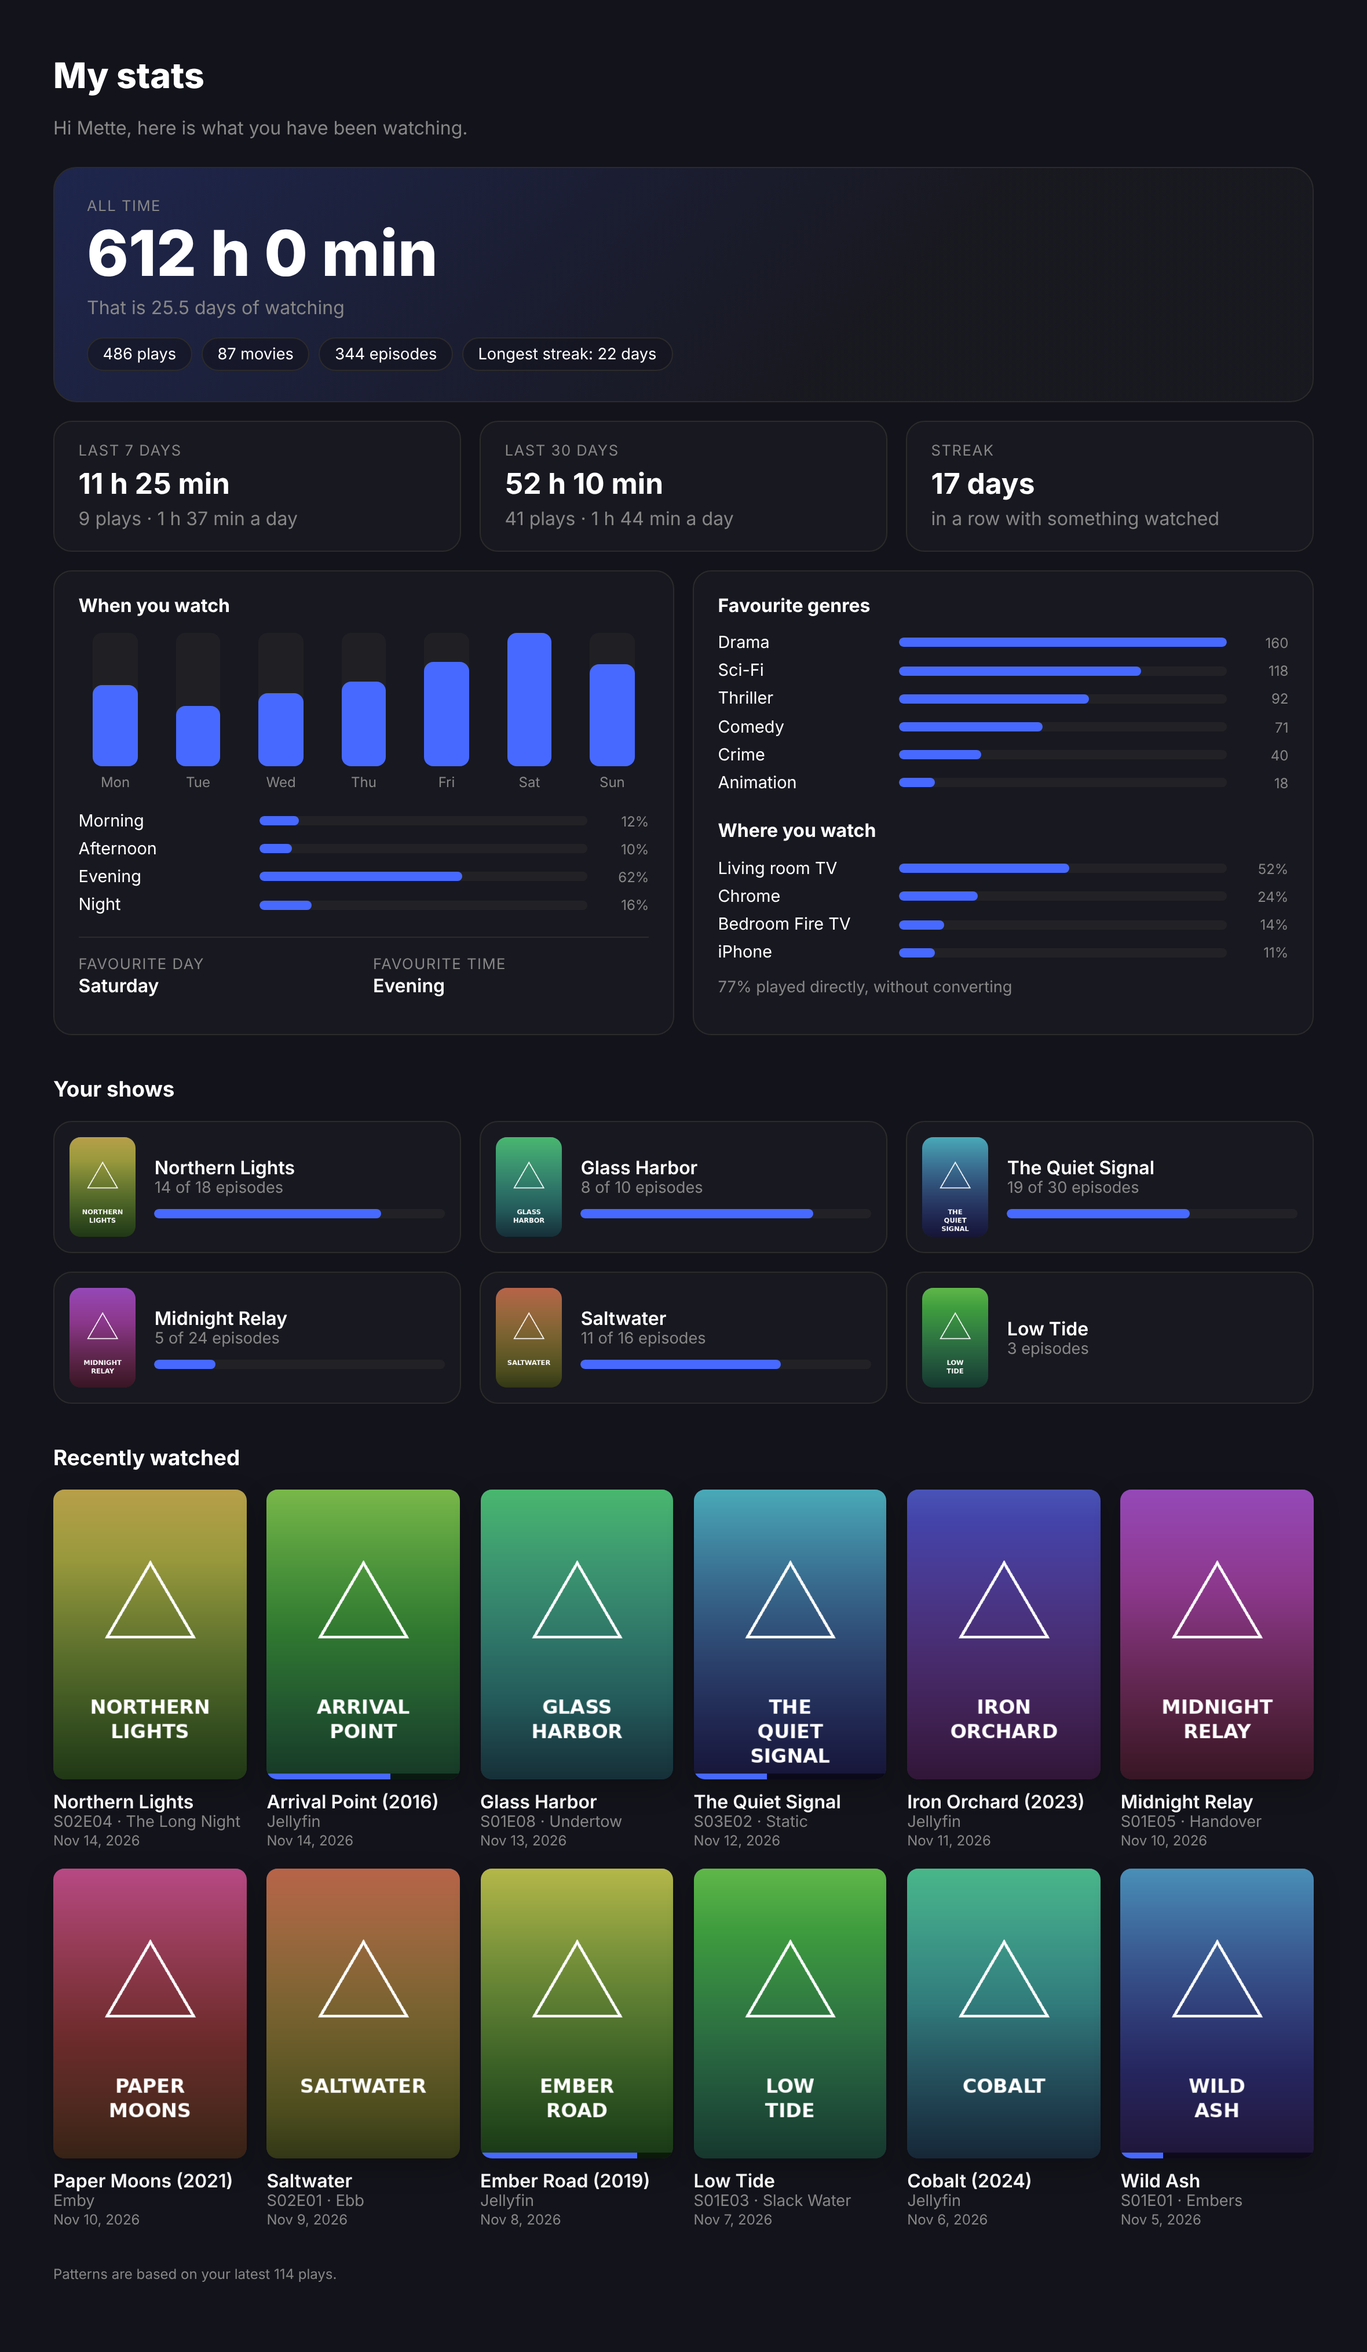
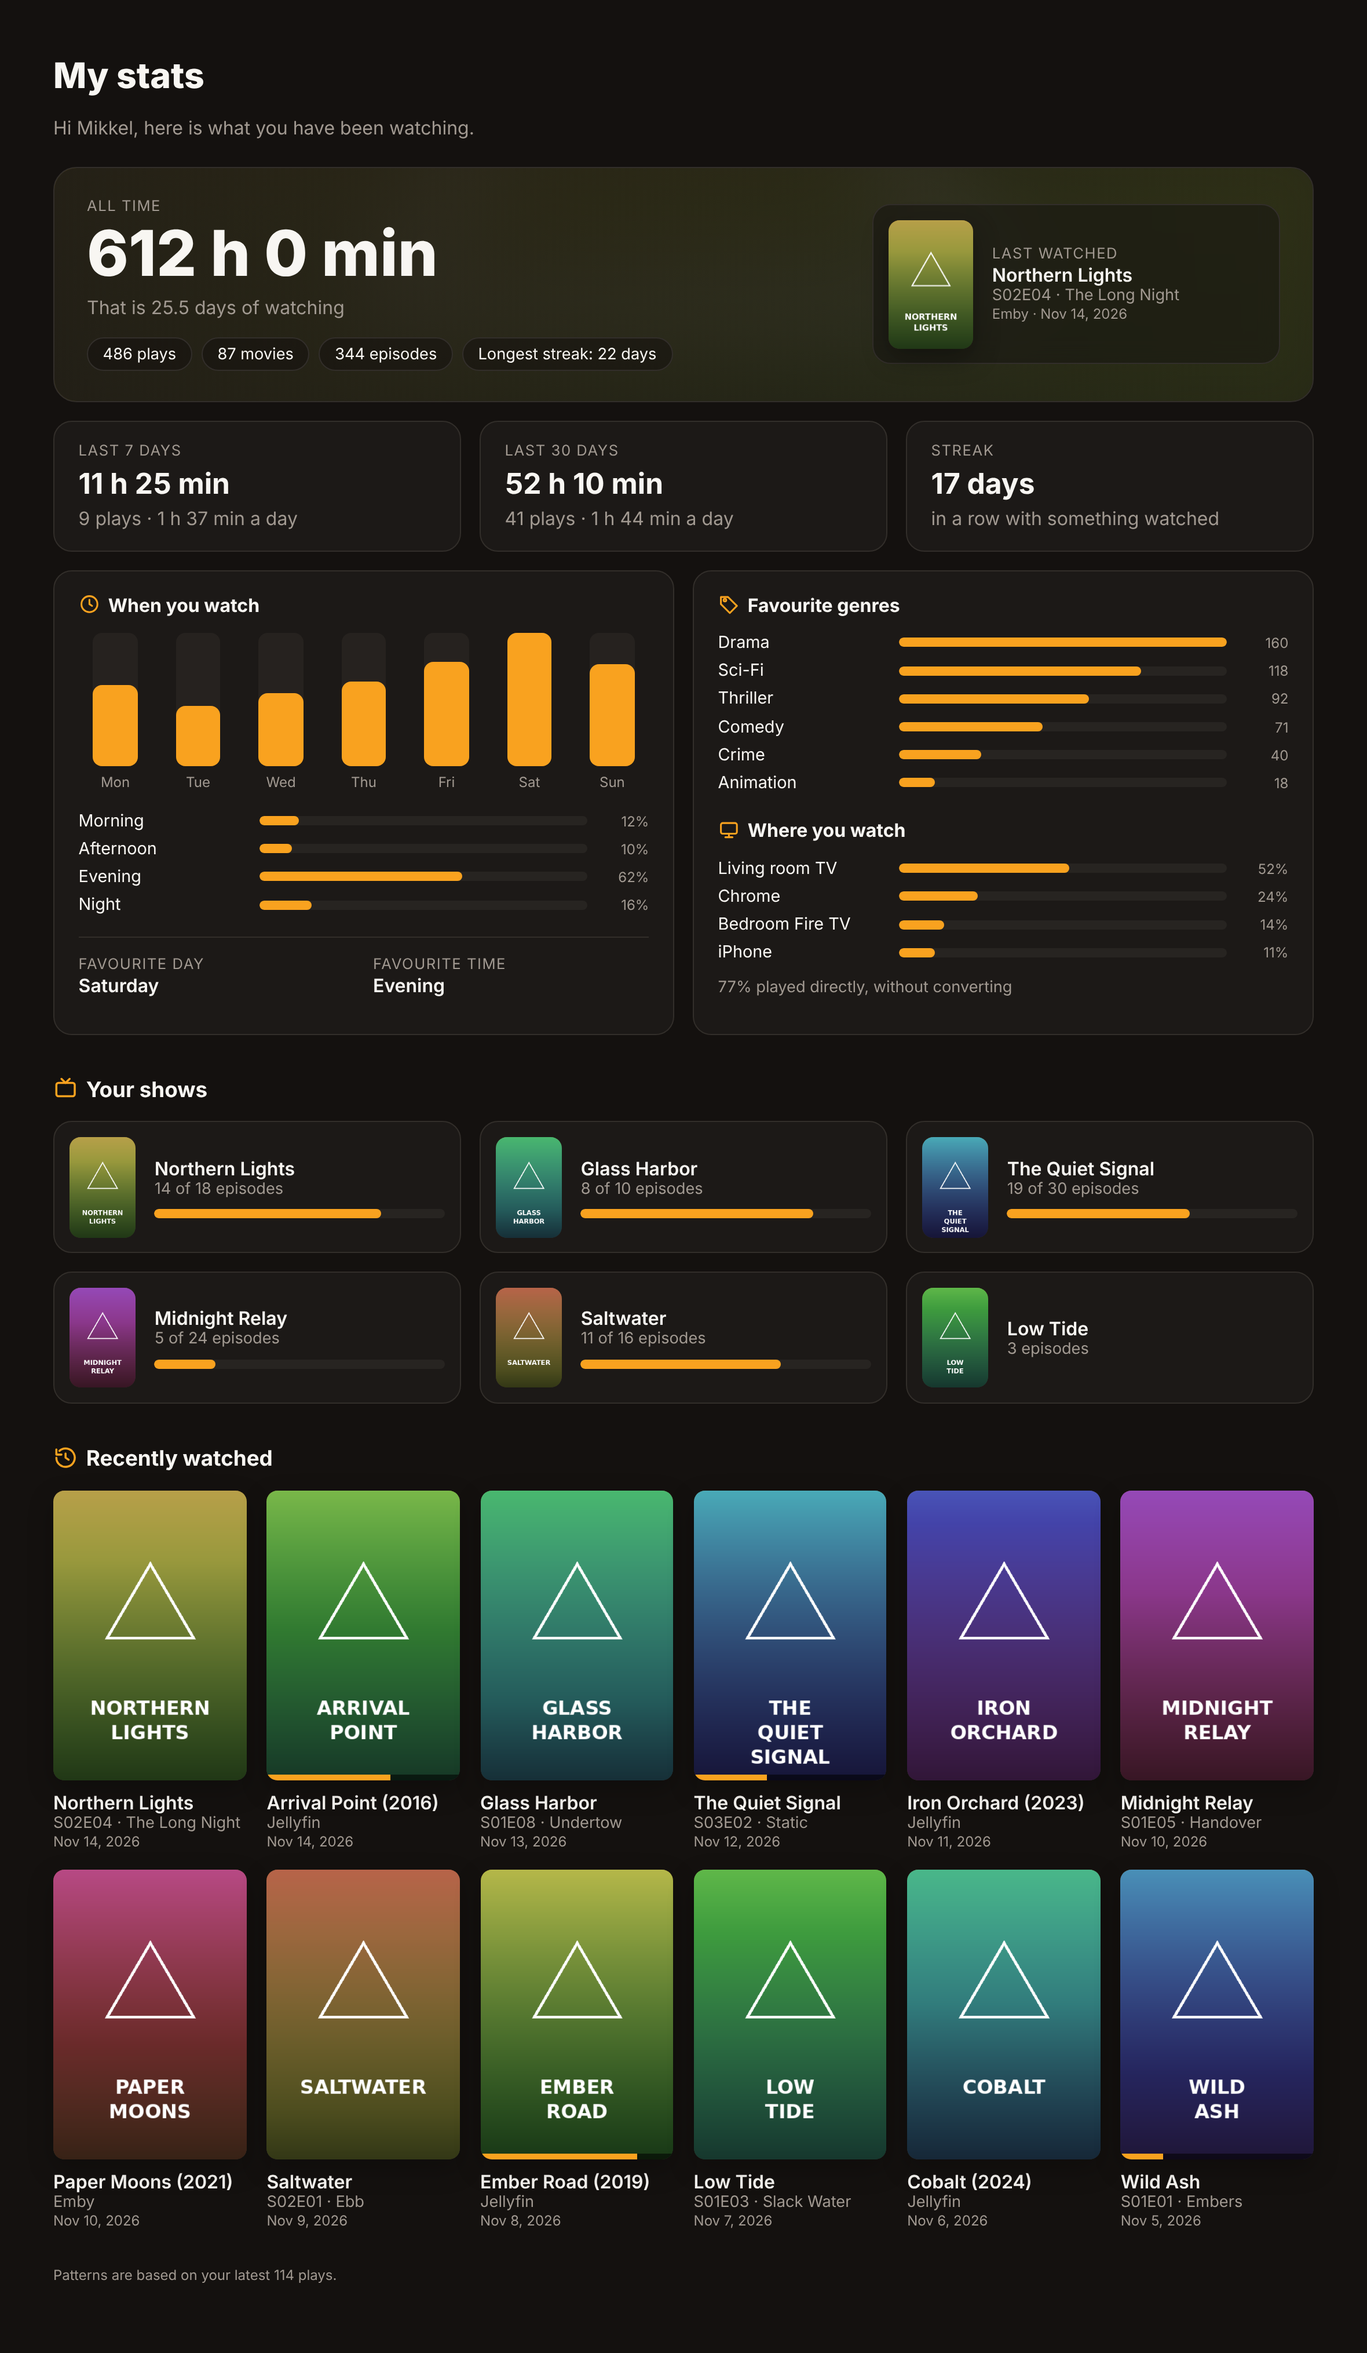
Paywarr Stats 1.4.0: a livelier page, also with little to show
- The top shows what was last watched, with its poster blurred behind
- 'Under 1 min' instead of '0 min'; no daily average below a minute
- Short plays count in 'When you watch', so a first play shows there
- Icons on the section headings, in the theme's colour
- 'your latest play' instead of 'your latest 1 plays'
- New screenshot

Claude-Session: https://claude.ai/code/session_01BG9g3MP2fdjTgy71zBk7Jb

diff --git a/extensions/Others/PaywarrStats/PaywarrStats.php b/extensions/Others/PaywarrStats/PaywarrStats.php
@@ -22,7 +22,7 @@ use Throwable;
 #[ExtensionMeta(
     name: 'Paywarr Stats',
     description: 'Shows each customer their own watch statistics from Tracearr or Silo, on a page in the client area.',
-    version: '1.3.1',
+    version: '1.4.0',
     author: 'Paywarr',
     url: 'https://github.com/Lolles1911/Paywarr-stats',
 )]
@@ -519,7 +519,8 @@ class PaywarrStats extends Extension
             if ($ts === false) {
                 continue;
             }
-            $minutes = intdiv(max(0, $play['watched_ms']), 60000);
+            // Every play counts in the patterns, a short one as a minute.
+            $minutes = max(1, intdiv(max(0, $play['watched_ms']), 60000));
             $weekdays[(int) date('N', $ts)] += $minutes;
             $hour = (int) date('G', $ts);
             $dayparts[$hour < 6 ? 'night' : ($hour < 12 ? 'morning' : ($hour < 18 ? 'afternoon' : 'evening'))] += $minutes;
@@ -602,10 +603,25 @@ class PaywarrStats extends Extension
         if ($insights['longest_streak'] > 1) {
             $chips[] = self::t('Longest streak: :count days', ['count' => $insights['longest_streak']]);
         }
-        $html .= '<section class="ps-hero"><div class="ps-label">' . $e(($stats['all_time'] ?? 'all') === 'year' ? self::t('Last 12 months') : self::t('All time')) . '</div>'
+        $last = $stats['recent'][0] ?? null;
+        $html .= '<section class="ps-hero">'
+            . ($last && $last['poster'] > 0 ? '<img class="ps-hero-bg" alt="" src="' . $e($posterBase . $last['poster']) . '" onerror="this.remove()">' : '')
+            . '<div class="ps-hero-main"><div class="ps-label">' . $e(($stats['all_time'] ?? 'all') === 'year' ? self::t('Last 12 months') : self::t('All time')) . '</div>'
             . '<div class="ps-big">' . $e($this->duration($all['watch_time_ms'])) . '</div>'
             . ($all['watch_time_ms'] >= 86400000 ? '<div class="ps-muted">' . $e(self::t('That is :count days of watching', ['count' => number_format($all['watch_time_ms'] / 86400000, 1, self::t('.'), '')])) . '</div>' : '')
-            . '<div class="ps-chips">' . implode('', array_map(fn ($c) => '<span class="ps-chip">' . $e($c) . '</span>', $chips)) . '</div></section>';
+            . '<div class="ps-chips">' . implode('', array_map(fn ($c) => '<span class="ps-chip">' . $e($c) . '</span>', $chips)) . '</div></div>';
+        if ($last) {
+            $lastTitle = $last['show'] !== '' ? $last['show'] : $last['title'] . ($last['year'] ? ' (' . $last['year'] . ')' : '');
+            $lastSub = $last['show'] !== '' ? ($last['season'] !== null && $last['episode'] !== null ? sprintf('S%02dE%02d', $last['season'], $last['episode']) . ' · ' : '') . $last['title'] : '';
+            $when = ($ts = strtotime($last['started_at'])) ? date(self::t('M j, Y'), $ts) : '';
+            $html .= '<div class="ps-spot">' . $poster($last['poster'], $lastTitle, 'ps-spot-cover')
+                . '<div class="ps-grow"><div class="ps-label">' . $e(self::t('Last watched')) . '</div>'
+                . '<div class="ps-title ps-clamp">' . $e($lastTitle) . '</div>'
+                . ($lastSub !== '' ? '<div class="ps-muted ps-small ps-clip">' . $e($lastSub) . '</div>' : '')
+                . '<div class="ps-muted ps-tiny">' . $e(implode(' · ', array_filter([$last['server'], $when]))) . '</div>'
+                . ($last['percent'] !== null && $last['percent'] < 95 ? $bar($last['percent'] / 100) : '') . '</div></div>';
+        }
+        $html .= '</section>';
 
         // Periods
         $html .= '<div class="ps-periods">';
@@ -614,7 +630,7 @@ class PaywarrStats extends Extension
             $html .= '<div class="ps-card"><div class="ps-label">' . $e($label) . '</div>'
                 . '<div class="ps-value">' . $e($this->duration($window['watch_time_ms'])) . '</div>'
                 . '<div class="ps-muted">' . $e($window['plays'] === 1 ? self::t('1 play') : self::t(':count plays', ['count' => $window['plays']]))
-                . ' · ' . $e(self::t(':time a day', ['time' => $this->duration(intdiv($window['watch_time_ms'], $daysInPeriod))])) . '</div></div>';
+                . ($window['watch_time_ms'] >= $daysInPeriod * 60000 ? ' · ' . $e(self::t(':time a day', ['time' => $this->duration(intdiv($window['watch_time_ms'], $daysInPeriod))])) : '') . '</div></div>';
         }
         if ($insights['current_streak'] > 0) {
             $html .= '<div class="ps-card"><div class="ps-label">' . $e(self::t('Streak')) . '</div>'
@@ -628,7 +644,7 @@ class PaywarrStats extends Extension
         if (array_sum($insights['weekdays']) > 0) {
             $max = max($insights['weekdays']);
             $names = [1 => self::t('Monday'), 2 => self::t('Tuesday'), 3 => self::t('Wednesday'), 4 => self::t('Thursday'), 5 => self::t('Friday'), 6 => self::t('Saturday'), 7 => self::t('Sunday')];
-            $html .= '<section class="ps-card"><h2>' . $e(self::t('When you watch')) . '</h2><div class="ps-week">';
+            $html .= '<section class="ps-card"><h2>' . $this->icon('when-you-watch') . $e(self::t('When you watch')) . '</h2><div class="ps-week">';
             foreach ($insights['weekdays'] as $day => $minutes) {
                 $html .= '<div class="ps-col" title="' . $e($this->duration($minutes * 60000)) . '"><span class="ps-colbar"><span style="height:' . max(3, (int) round(100 * $minutes / $max)) . '%"></span></span><span class="ps-tiny">' . $e(mb_substr($names[$day], 0, 3)) . '</span></div>';
             }
@@ -646,13 +662,13 @@ class PaywarrStats extends Extension
             $html .= '<section class="ps-card">';
             if ($stats['genres']) {
                 $top = max($stats['genres']);
-                $html .= '<h2>' . $e(self::t('Favourite genres')) . '</h2>';
+                $html .= '<h2>' . $this->icon('favourite-genres') . $e(self::t('Favourite genres')) . '</h2>';
                 foreach ($stats['genres'] as $genre => $count) {
                     $html .= '<div class="ps-line"><span>' . $e($genre) . '</span>' . $bar($count / max(1, $top)) . '<span class="ps-tiny">' . $e($count) . '</span></div>';
                 }
             }
             if ($insights['devices']) {
-                $html .= '<h2>' . $e(self::t('Where you watch')) . '</h2>';
+                $html .= '<h2>' . $this->icon('where-you-watch') . $e(self::t('Where you watch')) . '</h2>';
                 $sum = array_sum($insights['devices']);
                 foreach ($insights['devices'] as $device => $count) {
                     $html .= '<div class="ps-line"><span>' . $e($device) . '</span>' . $bar($count / max(1, $sum)) . '<span class="ps-tiny">' . round(100 * $count / max(1, $sum)) . '%</span></div>';
@@ -667,7 +683,7 @@ class PaywarrStats extends Extension
 
         // Shows
         if ($stats['shows']) {
-            $html .= '<h2 class="ps-h">' . $e(self::t('Your shows')) . '</h2><div class="ps-shows">';
+            $html .= '<h2 class="ps-h">' . $this->icon('your-shows') . $e(self::t('Your shows')) . '</h2><div class="ps-shows">';
             foreach ($stats['shows'] as $show) {
                 $progress = $show['episodes'] ? min(1, $show['watched'] / $show['episodes']) : null;
                 $html .= '<div class="ps-card ps-show">' . $poster($show['poster'], $show['title'], 'ps-thumb')
@@ -682,7 +698,7 @@ class PaywarrStats extends Extension
 
         // Recently watched
         if ($stats['recent']) {
-            $html .= '<h2 class="ps-h">' . $e(self::t('Recently watched')) . '</h2><div class="ps-posters">';
+            $html .= '<h2 class="ps-h">' . $this->icon('recently-watched') . $e(self::t('Recently watched')) . '</h2><div class="ps-posters">';
             foreach ($stats['recent'] as $play) {
                 $title = $play['show'] !== '' ? $play['show'] : $play['title'] . ($play['year'] ? ' (' . $play['year'] . ')' : '');
                 $sub = $play['show'] !== ''
@@ -699,10 +715,24 @@ class PaywarrStats extends Extension
         }
 
         if ($insights['sample'] > 0) {
-            $html .= '<p class="ps-muted ps-tiny ps-foot">' . $e(self::t('Patterns are based on your latest :count plays.', ['count' => $insights['sample']])) . '</p>';
+            $html .= '<p class="ps-muted ps-tiny ps-foot">' . $e($insights['sample'] === 1 ? self::t('Patterns are based on your latest play.') : self::t('Patterns are based on your latest :count plays.', ['count' => $insights['sample']])) . '</p>';
         }
 
         return $html . '</div>';
+    }
+
+    /** A small line icon for a section heading, in the theme's text colour. */
+    private function icon(string $name): string
+    {
+        $paths = [
+            'when-you-watch' => '<circle cx="12" cy="12" r="9"/><path d="M12 7v5l3 2"/>',
+            'favourite-genres' => '<path d="M3 12V4h8l10 10-8 8L3 12z"/><circle cx="7.5" cy="7.5" r="1.5"/>',
+            'where-you-watch' => '<rect x="3" y="4" width="18" height="12" rx="2"/><path d="M8 20h8M12 16v4"/>',
+            'your-shows' => '<rect x="3" y="6" width="18" height="13" rx="2"/><path d="M8 2l4 4 4-4"/>',
+            'recently-watched' => '<path d="M3 12a9 9 0 1 0 3-6.7"/><path d="M3 4v5h5"/><path d="M12 8v4l3 2"/>',
+        ];
+
+        return '<svg class="ps-ico" viewBox="0 0 24 24" aria-hidden="true">' . ($paths[$name] ?? '') . '</svg>';
     }
 
     private function css(): string
@@ -717,8 +747,17 @@ class PaywarrStats extends Extension
             . '#paywarr-stats .ps-small{font-size:.85rem}#paywarr-stats .ps-tiny{font-size:.75rem;color:hsl(var(--color-muted, var(--color-base)))}'
             . '#paywarr-stats .ps-card{background:hsl(var(--color-background-secondary));border:1px solid hsl(var(--color-neutral));border-radius:1rem;padding:1.15rem 1.3rem}'
             . '#paywarr-stats .ps-note{margin:0}'
-            . '#paywarr-stats .ps-hero{border-radius:1.25rem;padding:1.6rem 1.75rem;border:1px solid hsl(var(--color-neutral));'
+            . '#paywarr-stats .ps-hero{position:relative;overflow:hidden;isolation:isolate;display:grid;grid-template-columns:minmax(0,1fr) minmax(0,22rem);gap:1.5rem;align-items:center;'
+            . 'border-radius:1.25rem;padding:1.6rem 1.75rem;border:1px solid hsl(var(--color-neutral));'
             . 'background:linear-gradient(135deg,hsl(var(--color-primary) / .22),hsl(var(--color-background-secondary)) 65%)}'
+            . '#paywarr-stats .ps-hero-bg{position:absolute;inset:-3rem;width:calc(100% + 6rem);height:calc(100% + 6rem);object-fit:cover;filter:blur(40px) saturate(1.4);opacity:.35;z-index:-1}'
+            . '#paywarr-stats .ps-hero::after{content:"";position:absolute;inset:0;z-index:-1;background:linear-gradient(90deg,hsl(var(--color-background-secondary) / .85),hsl(var(--color-background-secondary) / .35))}'
+            . '#paywarr-stats .ps-spot{display:flex;gap:1rem;align-items:center;padding:.8rem;border-radius:1rem;background:hsl(var(--color-background) / .5);border:1px solid hsl(var(--color-neutral));backdrop-filter:blur(8px)}'
+            . '#paywarr-stats .ps-spot .ps-bar{margin-top:.55rem}'
+            . '#paywarr-stats .ps-spot-cover{position:relative;flex:none;display:block;width:4.6rem;aspect-ratio:2/3;overflow:hidden;border-radius:.6rem;box-shadow:0 8px 22px rgb(0 0 0 / .35);background:linear-gradient(160deg,hsl(var(--color-primary) / .35),hsl(var(--color-neutral)))}'
+            . '#paywarr-stats .ps-spot-cover img{position:absolute;inset:0;width:100%;height:100%;object-fit:cover}'
+            . '#paywarr-stats .ps-clamp{display:-webkit-box;-webkit-line-clamp:2;-webkit-box-orient:vertical;overflow:hidden}'
+            . '#paywarr-stats .ps-ico{width:1.15em;height:1.15em;margin-right:.45rem;vertical-align:-.2em;fill:none;stroke:hsl(var(--color-primary));stroke-width:2;stroke-linecap:round;stroke-linejoin:round}'
             . '#paywarr-stats .ps-label{font-size:.8rem;text-transform:uppercase;letter-spacing:.06em;color:hsl(var(--color-muted, var(--color-base)))}'
             . '#paywarr-stats .ps-big{font-size:clamp(2.2rem,6vw,3.4rem);font-weight:800;line-height:1.1;margin:.3rem 0}'
             . '#paywarr-stats .ps-value{font-size:1.55rem;font-weight:700;margin:.3rem 0}'
@@ -752,6 +791,7 @@ class PaywarrStats extends Extension
             . '#paywarr-stats .ps-progress span{display:block;height:100%;background:hsl(var(--color-primary))}'
             . '#paywarr-stats .ps-clip{overflow:hidden;text-overflow:ellipsis;white-space:nowrap}'
             . '#paywarr-stats .ps-foot{margin-top:2rem}'
+            . '@media (max-width:760px){#paywarr-stats .ps-hero{grid-template-columns:1fr}}'
             . '@media (max-width:640px){#paywarr-stats .ps-posters{grid-template-columns:repeat(auto-fill,minmax(6.25rem,1fr));gap:.75rem}#paywarr-stats .ps-hero{padding:1.3rem}}';
     }
 
@@ -760,6 +800,9 @@ class PaywarrStats extends Extension
     {
         $minutes = intdiv(max(0, $milliseconds), 60000);
         $hours = intdiv($minutes, 60);
+        if ($milliseconds > 0 && $minutes === 0) {
+            return self::t('Under 1 min');
+        }
 
         return $hours > 0
             ? self::t(':hours h :minutes min', ['hours' => $hours, 'minutes' => $minutes % 60])

diff --git a/tests/run.php b/tests/run.php
@@ -460,6 +460,18 @@ test('stats: genres without plays are left out', function () {
     same(['Horror' => 1], stats()->statsFor([['type' => 'jellyfin', 'username' => 'mette', 'id' => '1']])['genres'], 'only genres watched');
 });
 
+test('stats: a first, short play reads well: "under 1 min", no "0 min a day", the last thing watched up top', function () {
+    $play = ['title' => 'Ember Road', 'show' => '', 'season' => null, 'episode' => null, 'year' => 2025, 'type' => 'movie', 'server' => 'Silo', 'started_at' => '2026-11-14T15:00:00Z', 'percent' => 2, 'watched_ms' => 40000, 'device' => 'Silo Web', 'transcode' => false, 'poster' => 1];
+    $short = ['plays' => 1, 'watch_time_ms' => 40000];
+    $html = stats()->pageHtml(['state' => 'ok', 'all_time' => 'year', 'windows' => ['last_7' => $short, 'last_30' => $short, 'all_time' => $short], 'genres' => [], 'movies_watched' => 0, 'episodes_watched' => 0,
+        'shows' => [], 'recent' => [$play], 'insights' => stats()->insights([$play]), 'posters' => ['x']], '/stats/poster/');
+    ok(str_contains($html, '>Under 1 min<') && !str_contains($html, '>0 min<'), 'under 1 min');
+    ok(!str_contains($html, 'a day'), 'no daily average of nothing');
+    ok(str_contains($html, 'Last watched') && str_contains($html, 'class="ps-hero-bg"'), 'the last thing watched, poster behind');
+    ok(str_contains($html, 'When you watch'), 'a short play still counts in the patterns');
+    ok(str_contains($html, 'based on your latest play.'), 'one play, not "1 plays"');
+});
+
 test('stats: boot adds "My stats" to the client area menu', function () {
     \Illuminate\Support\Facades\Route::$routes = [];
     \Illuminate\Support\Facades\Event::$listeners = [];
